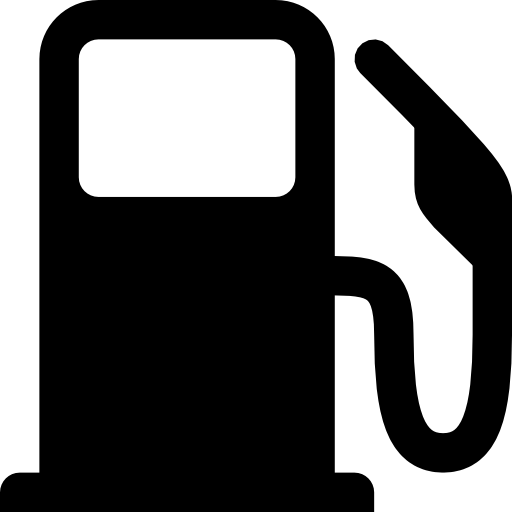
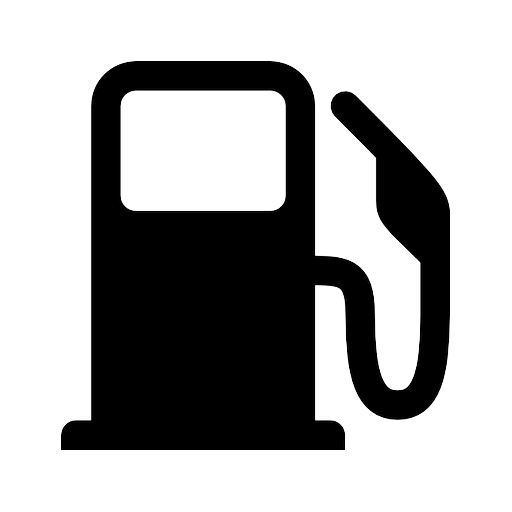
Ajustar iconos PWA y colores

diff --git a/index.html b/index.html
@@ -4,11 +4,11 @@
     <meta charset="UTF-8" />
     <link rel="icon" type="image/png" href="./src/assets/estacion.png" />
     <meta name="viewport" content="width=device-width, initial-scale=1.0, viewport-fit=cover" />
-    <meta name="theme-color" content="#0f172a" />
-    <meta name="description" content="Encuentra estaciones de servicio cercanas y consulta precios de combustibles en la Región Metropolitana" />
+    <meta name="theme-color" content="#29353b" />
+    <meta name="description" content="Encuentra estaciones de servicio cercanas y consulta precios de combustibles" />
     <meta name="apple-mobile-web-app-capable" content="yes" />
     <meta name="apple-mobile-web-app-status-bar-style" content="black-translucent" />
-    <meta name="apple-mobile-web-app-title" content="EstacionesCNE" />
+    <meta name="apple-mobile-web-app-title" content="GasoChile" />
     <link rel="apple-touch-icon" href="%BASE_URL%pwa-192x192.png" />
     <link rel="preconnect" href="https://fonts.googleapis.com" />
     <link rel="preconnect" href="https://fonts.gstatic.com" crossorigin />
@@ -26,7 +26,7 @@
         } catch (e) {}
       })();
     </script>
-    <title>Estaciones de Servicio Santiago</title>
+    <title>Estaciones de Servicio Chile</title>
   </head>
   <body>
     <div id="root"></div>

diff --git a/vite.config.js b/vite.config.js
@@ -11,11 +11,11 @@ export default defineConfig({
       registerType: 'autoUpdate',
       includeAssets: ['img/*.png', 'vite.svg'],
       manifest: {
-        name: 'Estaciones de Servicio Santiago',
-        short_name: 'EstacionesCNE',
-        description: 'Encuentra estaciones de servicio cercanas y consulta precios de combustibles en la Región Metropolitana',
+        name: 'Estaciones de Servicio',
+        short_name: 'Estaciones',
+        description: 'Encuentra estaciones de servicio cercanas y consulta precios de combustibles',
         theme_color: '#29353b',
-        background_color: '#ffffff',
+        background_color: '#29353b',
         display: 'standalone',
         start_url: '.',
         scope: '.',
